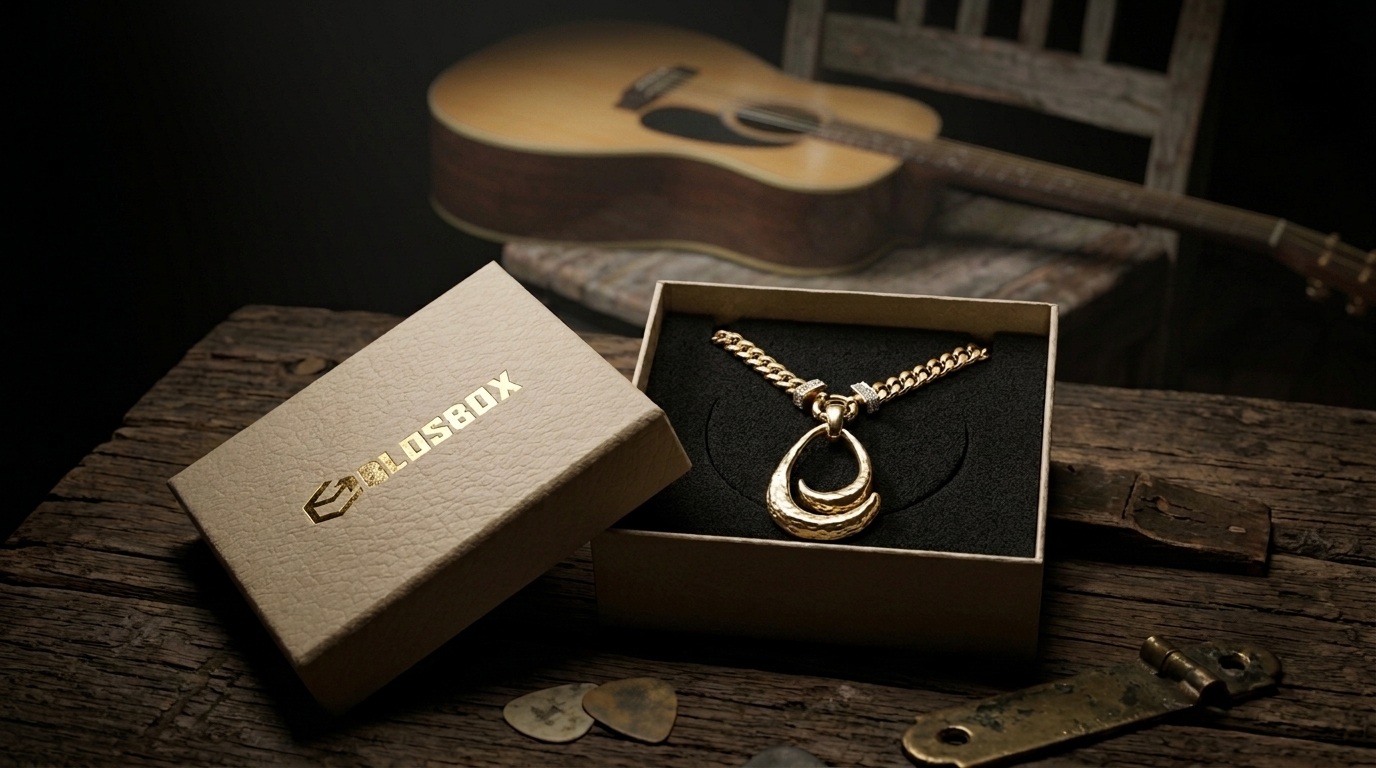
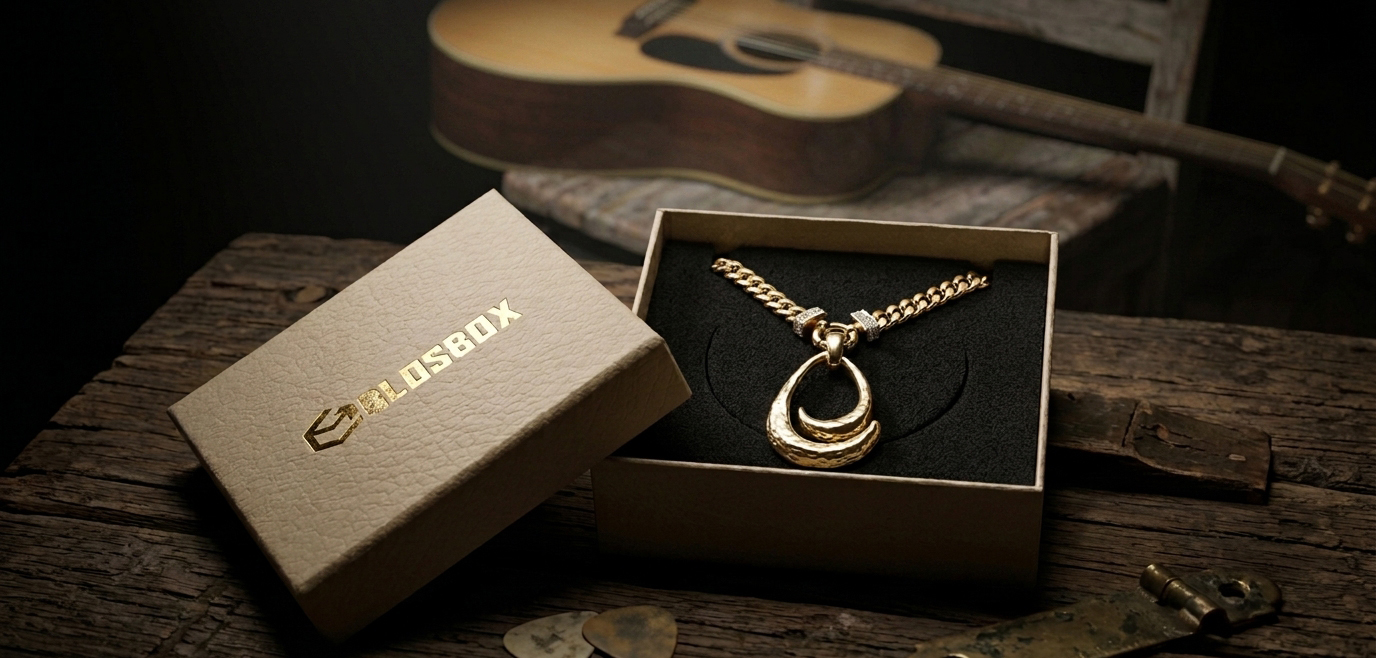
Convert Jewellery page slideshow to 3-column static photos grid layout

diff --git a/jewellery.html b/jewellery.html
@@ -7,8 +7,6 @@
     <!-- Modern luxury fonts -->
     <link href="https://fonts.googleapis.com/css2?family=Playfair+Display:ital,wght@0,400;0,500;0,600;0,700;1,400&family=Lato:wght@300;400;700&display=swap" rel="stylesheet">
     <link rel="stylesheet" href="https://cdnjs.cloudflare.com/ajax/libs/font-awesome/6.4.0/css/all.min.css">
-    <!-- Swiper JS for Gallery -->
-    <link rel="stylesheet" href="https://cdn.jsdelivr.net/npm/swiper@10/swiper-bundle.min.css" />
     <link rel="stylesheet" href="styles.css?v=29">
     <style>
         .hero {
@@ -17,12 +15,12 @@
             overflow-y: auto !important;
         }
         .jewellery-container {
-            max-width: 900px;
+            max-width: 1200px;
             margin: 0 auto;
             display: flex;
             flex-direction: column;
             align-items: center;
-            gap: 2.2rem;
+            gap: 2.5rem;
             box-sizing: border-box;
         }
         .jewellery-container h1 {
@@ -32,29 +30,33 @@
             letter-spacing: 2px;
             text-align: center;
         }
-        /* Swiper Gallery Styles */
-        .swiper-container {
+        /* Static Photos Grid Styles */
+        .photos-grid {
+            display: grid;
+            grid-template-columns: repeat(3, 1fr);
+            gap: 2rem;
             width: 100%;
-            max-width: 650px;
-            height: 400px;
-            border-radius: 8px;
-            overflow: hidden;
-            box-shadow: 0 20px 50px rgba(0,0,0,0.15);
-            position: relative;
+            max-width: 1100px;
             margin: 0 auto;
         }
-        .swiper {
+        .photo-item {
             width: 100%;
-            height: 100%;
+            height: 300px;
+            border-radius: 8px;
+            overflow: hidden;
+            box-shadow: 0 15px 35px rgba(0,0,0,0.12);
+            transition: transform 0.3s cubic-bezier(0.16, 1, 0.3, 1), box-shadow 0.3s ease;
+            cursor: pointer;
         }
-        .swiper-slide img {
+        .photo-item:hover {
+            transform: translateY(-6px);
+            box-shadow: 0 20px 45px rgba(0,0,0,0.22);
+        }
+        .photo-item img {
             width: 100%;
             height: 100%;
             object-fit: cover;
             object-position: center;
-        }
-        .swiper-button-next, .swiper-button-prev {
-            color: var(--brown-accent) !important;
         }
         .jewellery-text {
             max-width: 800px;
@@ -80,8 +82,13 @@
             .jewellery-container h1 {
                 font-size: 2.4rem;
             }
-            .swiper-container {
-                height: 300px;
+            .photos-grid {
+                grid-template-columns: 1fr;
+                gap: 1.5rem;
+                max-width: 450px;
+            }
+            .photo-item {
+                height: 250px;
             }
         }
     </style>
@@ -148,19 +155,10 @@
         <div class="jewellery-container">
             <h1 data-i18n="jewellery_title">Jewellery Packaging</h1>
             
-            <div class="swiper-container">
-                <div class="swiper swiper-jewellery">
-                    <div class="swiper-wrapper">
-                        <div class="swiper-slide"><img src="Jewellery/and_the_quality_of_the_202607022057.jpeg" alt="Premium jewellery box"></div>
-                        <div class="swiper-slide"><img src="Jewellery/Jewelry_box_with_necklace_inside_202607031850.jpeg" alt="Jewelry box with necklace inside"></div>
-                        <div class="swiper-slide"><img src="Jewellery/IMG_0297.JPG_202607031829.jpeg" alt="Jewellery packaging box"></div>
-                    </div>
-                    <!-- Add Pagination -->
-                    <div class="swiper-pagination"></div>
-                    <!-- Add Navigation -->
-                    <div class="swiper-button-next"></div>
-                    <div class="swiper-button-prev"></div>
-                </div>
+            <div class="photos-grid">
+                <div class="photo-item"><img src="Jewellery/and_the_quality_of_the_202607022057.jpeg" alt="Premium jewellery box" onclick="openLightbox(this.src)"></div>
+                <div class="photo-item"><img src="Jewellery/Jewelry_box_with_necklace_inside_202607031850.jpeg" alt="Jewelry box with necklace inside" onclick="openLightbox(this.src)"></div>
+                <div class="photo-item"><img src="Jewellery/IMG_0297.JPG_202607031829.jpeg" alt="Jewellery packaging box" onclick="openLightbox(this.src)"></div>
             </div>
 
             <div class="jewellery-text">
@@ -208,28 +206,6 @@
     <script src="translations.js?v=29"></script>
     <script src="i18n.js?v=29"></script>
     <script src="script.js?v=29"></script>
-    <script src="https://cdn.jsdelivr.net/npm/swiper@10/swiper-bundle.min.js"></script>
-    <script>
-      var swiper = new Swiper(".swiper-jewellery", {
-        loop: true,
-        navigation: {
-          nextEl: ".swiper-button-next",
-          prevEl: ".swiper-button-prev",
-        },
-        pagination: {
-          el: ".swiper-pagination",
-          clickable: true,
-        },
-        observer: true,
-        observeParents: true,
-        on: {
-          click: function(swiper, event) {
-            if (event.target.tagName.toLowerCase() === "img") {
-              openLightbox(event.target.src);
-            }
-          }
-        }
-      });
-    </script>
+
 </body>
 </html>
